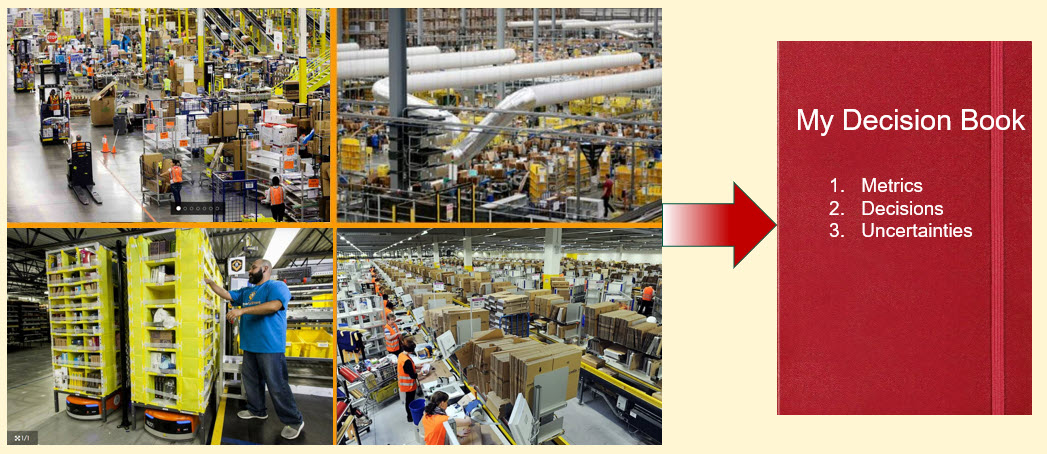
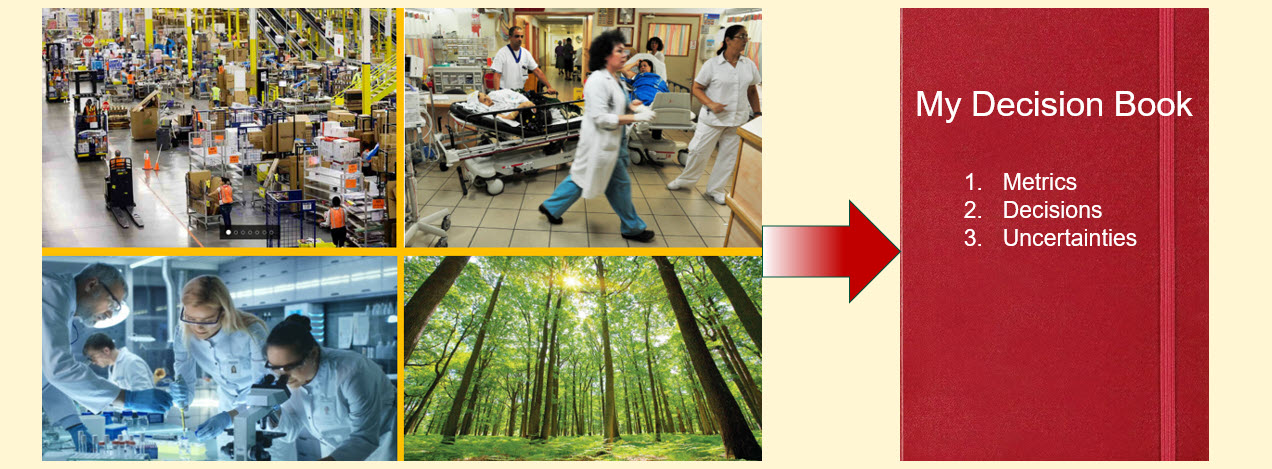
Add "Deciding what to decide" material to opening section
Appended after "You cannot make a better decision until you recognize
that you are making a decision," per the "Webpage edits" docx (heading
itself omitted per instructions). Updated the accompanying diagram to
the broader version (warehouse/hospital/lab/forest examples) sourced
from "Website images/Problems to decisions.jpg", replacing the older
Amazon-only version that was tied to the now-removed "What decisions
do we need to make?" section.

diff --git a/_pages/whatisadecision.md b/_pages/whatisadecision.md
@@ -32,6 +32,10 @@ After a career in traditional academic research on models and algorithms for mak
 
 A goal of this page is making people more aware of when they are making decisions, since we frequently make decisions without realizing it. You cannot make a better decision until you recognize that you are making a decision.
 
+Identifying the decisions that determine how a system behaves is not easy, and represents an important skill. This webpage is designed to help with this process.
+
+<img src="/assets/images/decisionsdecisions/problems-to-decisions.jpg" alt="Photos of a fulfillment warehouse, a hospital, a research lab, and a forest, each feeding into a red notebook titled 'My Decision Book' listing metrics, decisions, and uncertainties" style="display: block; margin: 1rem auto; max-width: 80%; height: auto;" />
+
 ## What is a decision? {#what-is-a-decision}
 
 It is astonishing that such a fundamental activity of people lacks a broadly accepted definition.  As with many commonly used words, "decision" is used in different ways.  
